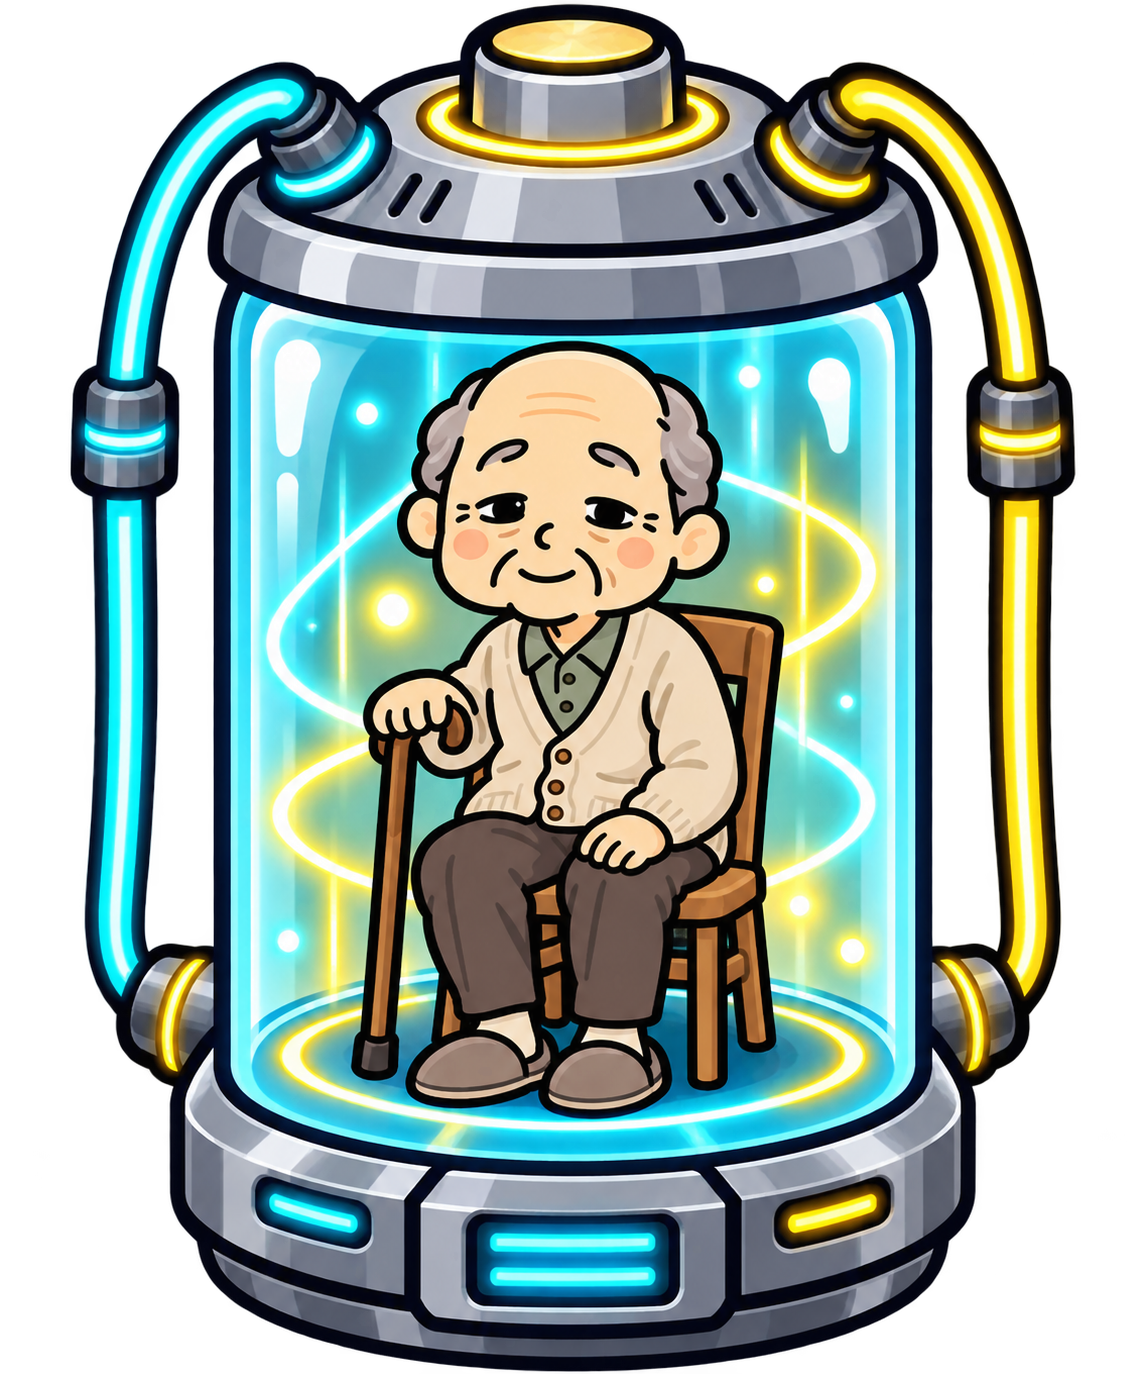
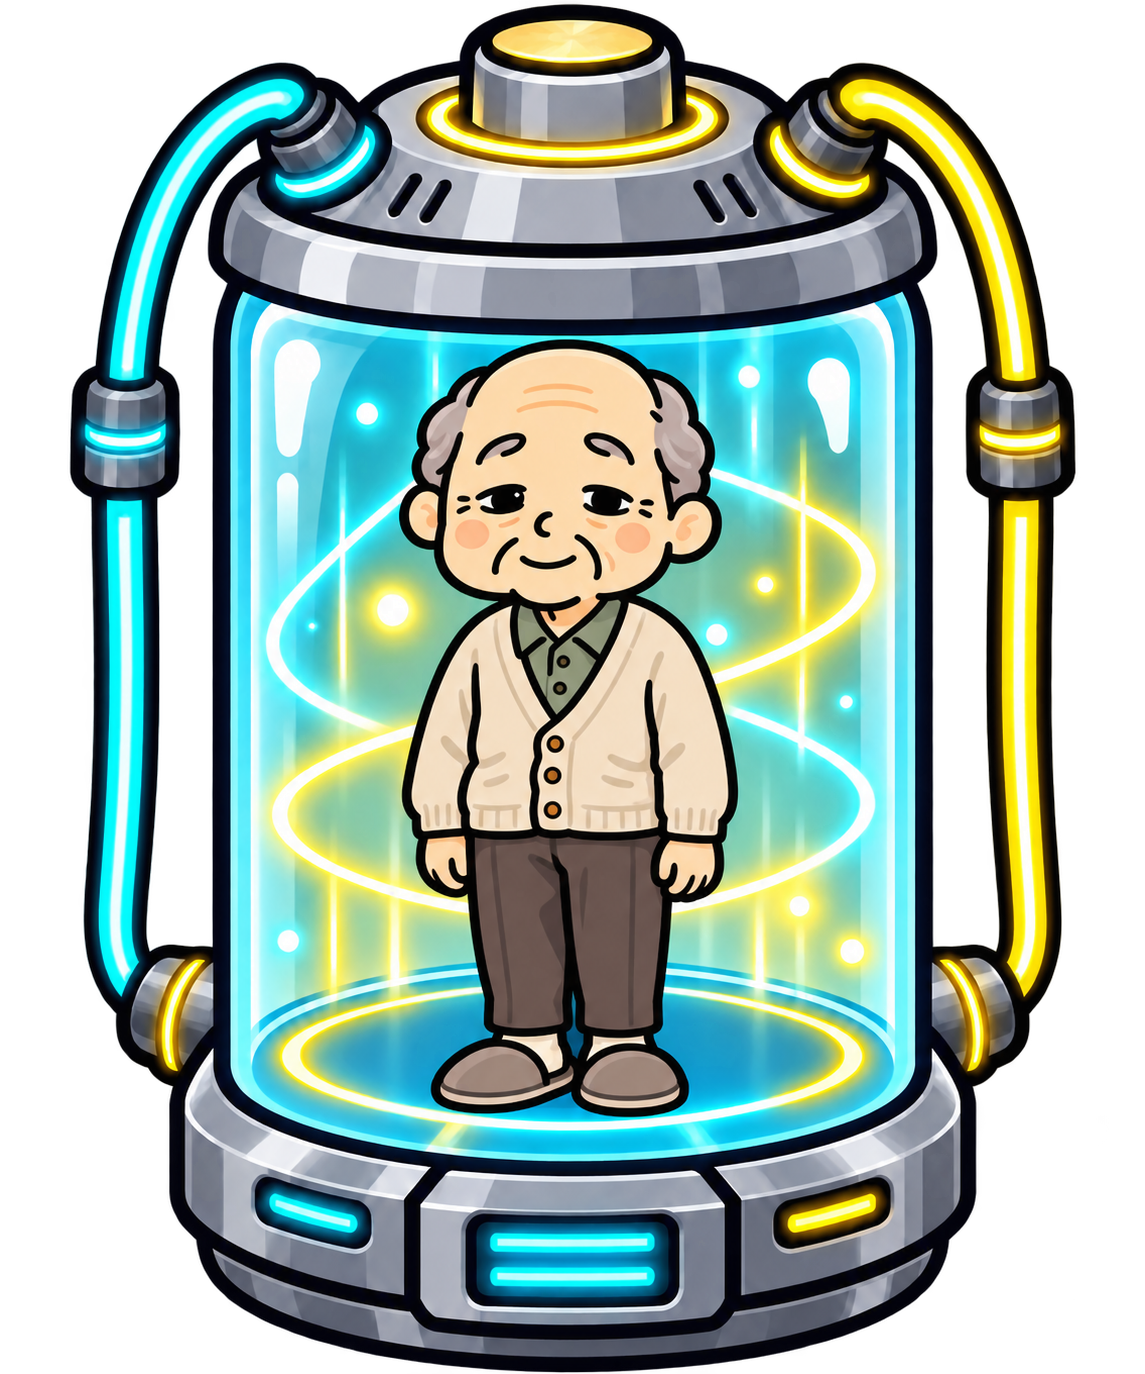
人間電池から椅子と杖を外す

diff --git a/app-card-battle-v2.js b/app-card-battle-v2.js
@@ -19,7 +19,7 @@ const quizTriviaDefaults=()=>{const f=[
 const gameAssetCatalog=GAME_DATA.assets||{},gameMapNames=gameAssetCatalog.maps||[],gameNpcNames=gameAssetCatalog.npcs||[],gameItemNames=gameAssetCatalog.items||[];
 // シナリオの到達状態はゲームを遊んでいる端末ごとに保持する。ツールとゲームで同じキーを使う。
 const scenarioFlowFlagsKey='amu-runner-scenario-flow-flags-v1',scenarioFlowFlagKey=(scenarioId,nodeId)=>String(scenarioId||'')+'::'+String(nodeId||''),readScenarioFlowFlags=()=>{try{return JSON.parse(localStorage.getItem(scenarioFlowFlagsKey)||'{}')}catch{return{}}},setScenarioFlowFlag=(scenarioId,nodeId)=>{if(!scenarioId||!nodeId)return;const flags=readScenarioFlowFlags();flags[scenarioFlowFlagKey(scenarioId,nodeId)]=true;localStorage.setItem(scenarioFlowFlagsKey,JSON.stringify(flags));window.dispatchEvent(new CustomEvent('scenario-flow-flag-set',{detail:{scenarioId,nodeId}}))};
-const gameItemSrc=name=>{const file=String(name).replace(/\.png$/i,'');return 'game-assets/items/'+encodeURIComponent(file)+'.webp?v=20261002-human-battery-grandfather-2'};
+const gameItemSrc=name=>{const file=String(name).replace(/\.png$/i,'');return 'game-assets/items/'+encodeURIComponent(file)+'.webp?v=20261002-human-battery-no-chair-3'};
 const MONSTER_JOURNAL_ITEM='バケモノの手記.png';
 const REPORT_ITEM='レポート.png';
 const monsterJournalPages=[

diff --git a/index.html b/index.html
@@ -12,7 +12,7 @@
   <main class="page"><section id="app" class="card"></section></main>
   <script>
     const q=new URLSearchParams(location.search),j=document.createElement('script');
-j.src=q.has('topdown')?'app-topdown.js?v=20260928-map-refresh-2':q.has('hiragana')?'app-hiragana.js?v=20260928-map-refresh-2':'app-card-battle-v2.js?v=20261002-human-battery-grandfather-2';
+j.src=q.has('topdown')?'app-topdown.js?v=20260928-map-refresh-2':q.has('hiragana')?'app-hiragana.js?v=20260928-map-refresh-2':'app-card-battle-v2.js?v=20261002-human-battery-no-chair-3';
     document.body.append(j);
   </script>
 </body>

diff --git a/map/index.html b/map/index.html
@@ -12,6 +12,6 @@
 </head>
 <body>
   <main class="page"><section id="app" class="card"></section></main>
-<script src="../app-card-battle-v2.js?v=20261002-human-battery-grandfather-2"></script>
+<script src="../app-card-battle-v2.js?v=20261002-human-battery-no-chair-3"></script>
 </body>
 </html>
